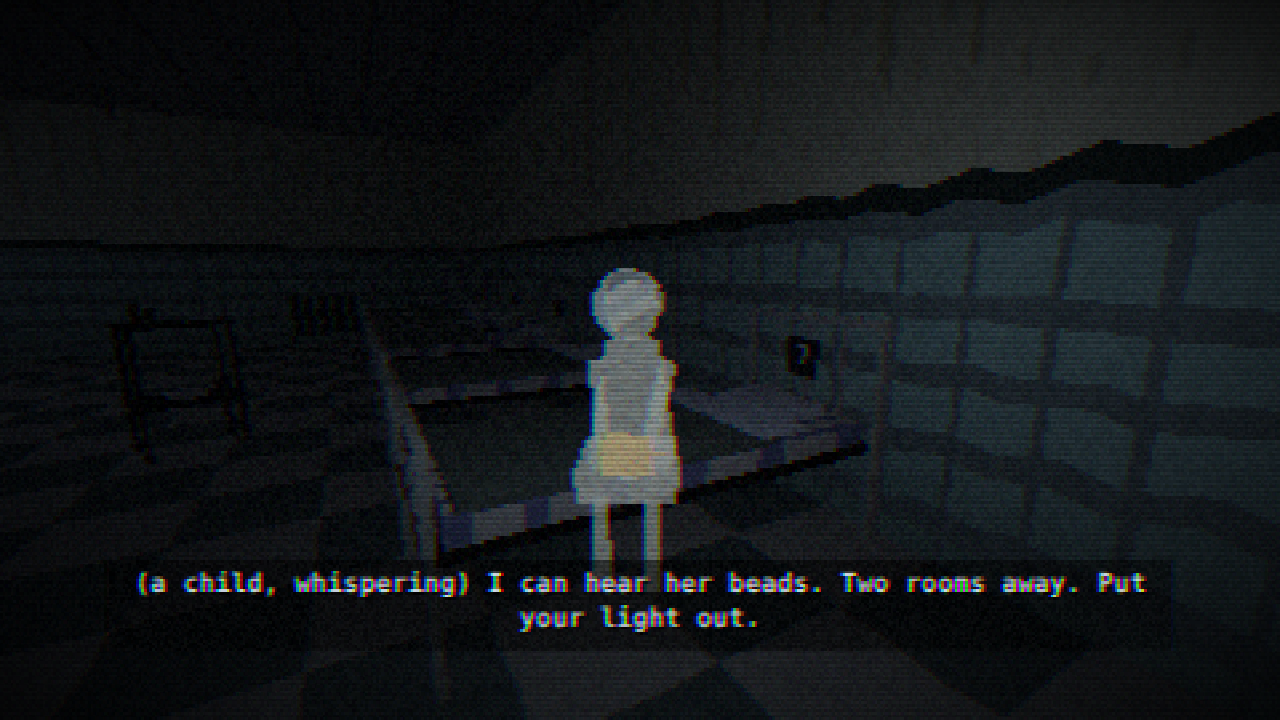
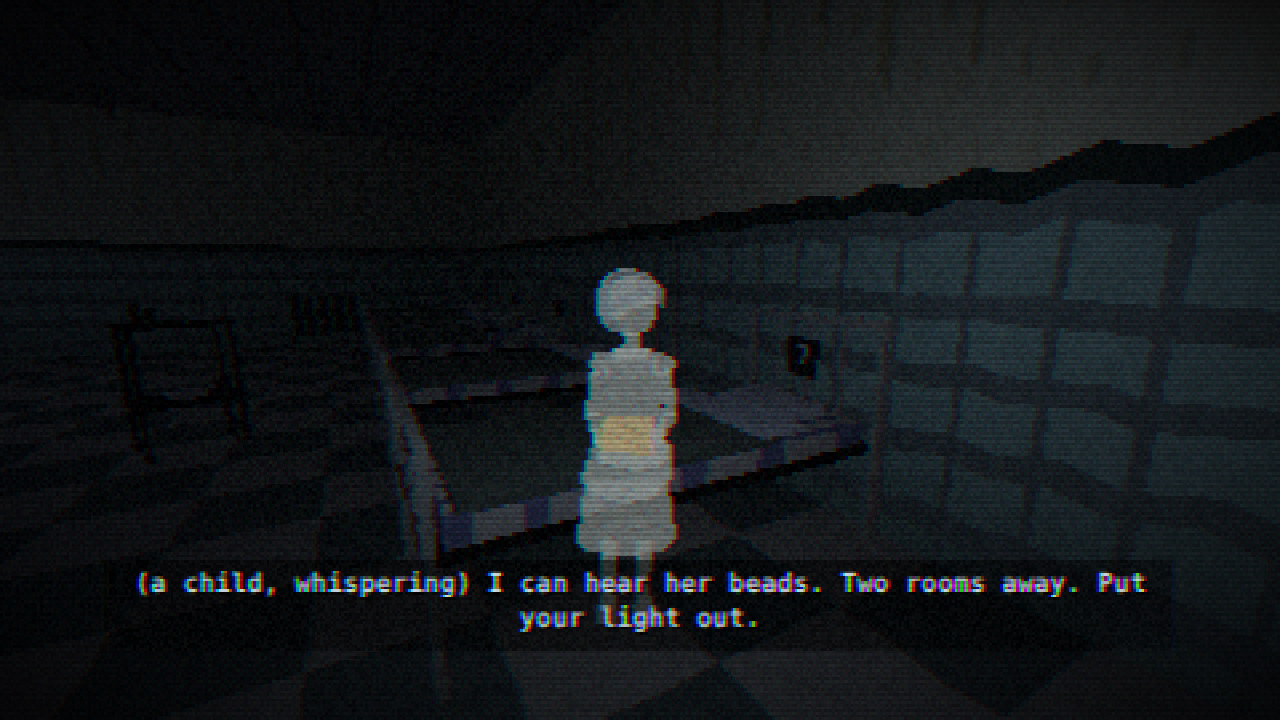
0.2.78: Edith redrawn as a seated child in a nightdress
Owner's note on the part C stills: the ghost looked off up close. New
seated figure (narrow shoulders, sleeves, collar, gown over the lap,
dangling feet, arms to the box), not see-through to herself; the mended
box lined red with a softer light. Part C picks recorded.

Claude-Session: https://claude.ai/code/session_01Kt2ajWcwzg7QhP3mDk3ZUu

Changed region(s): [[0.4375, 0.3667, 0.5312, 0.8861]]

diff --git a/src/props/wardFigures.js b/src/props/wardFigures.js
@@ -15,48 +15,85 @@ function mesh(geometry, texture, options) {
   return new THREE.Mesh(geometry, materialFor(texture, options));
 }
 
+// A limb: a six-sided tube from one point to another, radius r.
+function limb(t, from, to, r, options) {
+  const a = new THREE.Vector3(...from);
+  const b = new THREE.Vector3(...to);
+  const tube = mesh(new THREE.CylinderGeometry(r * 0.9, r, a.distanceTo(b), 6), t.sheet, options);
+  tube.position.copy(a).lerp(b, 0.5);
+  tube.quaternion.setFromUnitVectors(new THREE.Vector3(0, 1, 0), b.sub(a).normalize());
+  return tube;
+}
+
 // Edith Carr, sitting on the edge of a bed with her music box in her lap,
 // her head tilted to listen (she is blind). Faceless and unhurt, as every
-// ghost child (scare rules). Origin: where she sits.
+// ghost child (scare rules). A seated child in a nightdress (owner
+// 2026-11-17: the first one looked off close up): the gown narrow at the
+// shoulders, over her lap, falling from the knees; bare shins and feet
+// hanging over the edge, not reaching the floor; arms down and forward,
+// hands on the box. Origin: where she sits; she faces +z.
 function ghostEdith(t, { opacity = 0.6, box: musicBox = 'closed' } = {}) {
-  const ghost = { unlit: true, color: 0xd8e4ec, transparent: true, opacity, depthWrite: false, fog: false };
-  const body = mesh(new THREE.CylinderGeometry(0.1, 0.17, 0.44, 7), t.sheet, ghost);
-  body.position.y = 0.22;
-  const head = mesh(new THREE.SphereGeometry(0.105, 7, 5), t.sheet, ghost);
-  // Bobbed hair: a cap cut straight below the ears, open at the face.
-  const bob = mesh(new THREE.SphereGeometry(0.128, 8, 5, Math.PI * 0.78, Math.PI * 1.44, 0, Math.PI * 0.7), t.sheet, { ...ghost, color: 0xa9b9cc, side: THREE.DoubleSide });
-  bob.position.y = 0.012;
-  const headGroup = group(head, bob, box(t.sheet, [0.2, 0.03, 0.03], [0, 0.05, 0.085], { ...ghost, color: 0xa9b9cc })); // and a fringe
-  headGroup.position.set(0, 0.55, 0.01);
-  headGroup.rotation.set(0.12, 0.4, 0.45); // one ear turned to the room
-  const arm = (side) => strut(t.sheet, [side * 0.13, 0.36, 0.02], [side * 0.07, 0.13, 0.22], [0.045, 0.045], ghost);
+  // depthWrite on: seen close, her far side must not show through her.
+  const ghost = { unlit: true, color: 0xd8e4ec, transparent: true, opacity, depthWrite: true, fog: false, flatShading: true };
+  const part = (geometry, at, turn = [0, 0, 0], options = ghost) => {
+    const piece = mesh(geometry, t.sheet, options);
+    piece.position.set(...at);
+    piece.rotation.set(...turn);
+    return piece;
+  };
+  const torso = part(new THREE.CylinderGeometry(0.085, 0.13, 0.4, 8), [0, 0.2, 0], [0.08, 0, 0]);
+  torso.scale.z = 0.72;
+  const lap = part(new THREE.CylinderGeometry(0.075, 0.08, 0.3, 8), [0, 0.055, 0.15], [Math.PI / 2, 0, 0]);
+  lap.scale.x = 1.8;
+  const hem = part(new THREE.CylinderGeometry(0.13, 0.155, 0.2, 8), [0, -0.04, 0.31]);
+  hem.scale.z = 0.55;
+  const legs = [-0.055, 0.055].flatMap((x) => [
+    part(new THREE.CylinderGeometry(0.026, 0.023, 0.2, 6), [x, -0.24, 0.32]),
+    part(new THREE.BoxGeometry(0.05, 0.03, 0.09), [x, -0.35, 0.35]),
+  ]);
+  const arms = [-1, 1].flatMap((side) => [
+    limb(t, [side * 0.112, 0.37, 0.03], [side * 0.135, 0.19, 0.07], 0.03, ghost),
+    limb(t, [side * 0.135, 0.19, 0.07], [side * 0.095, 0.16, 0.2], 0.026, ghost),
+    part(new THREE.SphereGeometry(0.027, 6, 4), [side * 0.093, 0.16, 0.21]),
+  ]);
+  const neck = part(new THREE.CylinderGeometry(0.034, 0.04, 0.08, 6), [0, 0.43, 0.02]);
+  const collar = part(new THREE.CylinderGeometry(0.062, 0.075, 0.025, 8), [0, 0.4, 0.025]); // the nightdress's round collar
+  const sleeves = [-1, 1].map((side) => part(new THREE.SphereGeometry(0.045, 6, 4), [side * 0.105, 0.36, 0.025])); // puffed
+  const head = mesh(new THREE.SphereGeometry(0.1, 8, 6), t.sheet, ghost);
+  head.scale.set(0.95, 1.05, 1);
+  // Bobbed hair: a cap cut straight below the ears, open at the face, and a fringe.
+  const bob = mesh(new THREE.SphereGeometry(0.118, 8, 5, Math.PI * 0.78, Math.PI * 1.44, 0, Math.PI * 0.68), t.sheet, { ...ghost, color: 0xa9b9cc, side: THREE.DoubleSide });
+  bob.position.y = 0.014;
+  const headGroup = group(head, bob, box(t.sheet, [0.17, 0.026, 0.03], [0, 0.045, 0.08], { ...ghost, color: 0xa9b9cc }));
+  headGroup.position.set(0, 0.56, 0.035);
+  headGroup.rotation.set(0.12, 0.4, 0.4); // one ear turned to the room
+  const real = { color: 0xf0dcae, unlit: true, transparent: true, opacity: Math.min(1, opacity + 0.25), depthWrite: true, fog: false };
   return group(
-    body, headGroup, arm(-1), arm(1),
-    box(t.sheet, [0.32, 0.1, 0.34], [0, -0.03, 0.12], ghost), // her lap
-    box(t.sheet, [0.05, 0.3, 0.05], [-0.08, -0.33, 0.27], ghost),
-    box(t.sheet, [0.05, 0.3, 0.05], [0.08, -0.33, 0.27], ghost),
+    torso, lap, hem, ...legs, ...arms, ...sleeves, neck, collar, headGroup,
     ...(musicBox === 'open' ? openBox(t) : [
-      box(t.sheet, [0.16, 0.09, 0.12], [0, 0.07, 0.24], { ...ghost, color: 0xf0dcae, opacity: Math.min(1, opacity + 0.25) }), // the music box
-      box(t.sheet, [0.05, 0.015, 0.015], [0.105, 0.11, 0.24], { ...ghost, color: 0xf0dcae, opacity: Math.min(1, opacity + 0.25) }), // its crank
+      box(t.sheet, [0.16, 0.09, 0.12], [0, 0.125, 0.21], real), // the music box
+      box(t.sheet, [0.04, 0.012, 0.012], [0.1, 0.17, 0.21], real), // its crank
     ]),
   );
 }
 
 // Her music box mended (part C): real, not ghostly, its lid open, the brass
-// cylinder turning inside, a warm light from it on her hands.
+// cylinder on top, a soft warm light from it on her hands.
 function openBox(t) {
   const tin = { color: '#b0b4ae' };
-  const lid = box(t.sheet, [0.16, 0.012, 0.12], [0, 0, 0.06], tin);
-  const hinge = group(lid); // hinged at the back, open towards her
-  hinge.position.set(0, 0.11, 0.18);
+  const hinge = group( // hinged at the back, open towards her
+    box(t.sheet, [0.16, 0.01, 0.12], [0, 0, 0.06], tin),
+    box(t.sheet, [0.14, 0.004, 0.1], [0, -0.006, 0.06], { color: '#6a2c2a' }), // the faded red lining (inside, facing her once open)
+  );
+  hinge.position.set(0, 0.205, 0.15);
   hinge.rotation.x = -1.9;
-  const glow = new THREE.PointLight('#ffcf8a', 2.2, 2.2, 1.3);
-  glow.position.set(0, 0.2, 0.3);
+  const glow = new THREE.PointLight('#ffb866', 0.7, 1.0, 1.6);
+  glow.position.set(0, 0.26, 0.24);
   return [
-    box(t.sheet, [0.16, 0.08, 0.12], [0, 0.03, 0.24], tin),
-    box(t.sheet, [0.12, 0.03, 0.03], [0, 0.085, 0.22], { color: '#c8a050' }), // the cylinder
-    box(t.sheet, [0.12, 0.012, 0.04], [0, 0.085, 0.27], { color: '#d8d0b0' }), // its comb
-    box(t.sheet, [0.04, 0.012, 0.012], [0.1, 0.07, 0.24], { color: '#b8923a' }), // the key
+    box(t.sheet, [0.16, 0.08, 0.12], [0, 0.125, 0.21], tin),
+    box(t.sheet, [0.12, 0.028, 0.028], [0, 0.205, 0.19], { color: '#c8a050' }), // the cylinder
+    box(t.sheet, [0.12, 0.008, 0.035], [0, 0.205, 0.235], { color: '#d8d0b0' }), // its comb
+    box(t.sheet, [0.03, 0.012, 0.012], [0.095, 0.16, 0.21], { color: '#b8923a' }), // the key
     hinge,
     glow,
   ];

diff --git a/src/mockups/wardPartCStills.js b/src/mockups/wardPartCStills.js
@@ -96,7 +96,7 @@ export const WARD_PARTC_STILLS = {
       const pale = new THREE.PointLight('#9fb4dc', 1.6, 4.5, 1.3);
       pale.position.set(6.7 * CELL, 1.5, 8.9 * CELL);
       world.scene.add(pale);
-      look(world, [6.6 * CELL, 8.75 * CELL], [6.86 * CELL, 8.32 * CELL], 0.95, 0.72);
+      look(world, [5.85 * CELL, 8.45 * CELL], [6.9 * CELL, 8.3 * CELL], 1.3, 0.78); // from her side: sitting on the bed's edge, the box in her lap
     },
     ui: (ctx) => subtitle(ctx, '(Edith, whispering) That’s it. That’s the one my mother wound.'),
   },

diff --git a/docs/DESIGN_0.4.md b/docs/DESIGN_0.4.md
@@ -321,6 +321,16 @@ ceiling and down the walls, a candle burnt down to nothing on your table, the li
 New, mockup-only: `src/props/sisterRoom.js` (prieDieu, candle, stonePalm, trunk, boardedWindow,
 habitPeg, sootStain) and Edith's `box: 'open'`. The mock camcorder display now matches the game's.
 
+## Owner's picks on part C (2026-11-17)
+- **Stills approved,** with one note: "the ghost looks a little off". Edith rebuilt as a seated child
+  in a nightdress (a torso narrowing to the shoulders, puffed sleeves, a round collar, the gown over
+  her lap and falling from the knees, bare shins and feet hanging over the bed's edge, arms down and
+  forward to the box), drawn without seeing through herself; the mended box's lid lined faded red,
+  its light softer. `edith` and `box_mended` reshot (the latter from her side).
+- **The chase out:** she walks at 2.0 m/s (your walk 1.7, your run 3.3).
+- **Part C in two steps:** C1 the night sister's key, her room, the trunk, the confession and the
+  stone palm; C2 Edith's box mended, the chase out, the wing finished, your room's decay, the bot run.
+
 ## Next
 The owner's checklist on the content sheet and the priority 1 sounds; stills
 for part A's rooms, then build A, B, C in that order with the bot route per part.

diff --git a/CHANGELOG.md b/CHANGELOG.md
@@ -2,6 +2,7 @@
 
 Newest first. One line per change.
 
+- 0.2.78 — Edith redrawn after the owner's note (the ghost looked off up close): a small girl in a nightdress sitting on the edge of her bed, feet dangling, the music box in her hands.
 - 0.2.77 — 0.4 stills for the end of the west wing: Sister M.'s room, her candle before the stone palm, her trunk open, Edith with her music box mended, the way out in the dark, and your room after the wing. Nothing in the game changes.
 - 0.2.76 — Nora's tape plays on the day room television: half a minute of her own footage in the night view (Ward A's lamps going out, the writing in a cell, Sister M. in a doorway), with her words. A click stops it; it can be played again.
 - 0.2.75 — The first floor's secrets: Maggie's writing in the isolation cells, seen only through the camcorder's night view; Dr. Venn's door opens to the numbers she wrote, and his office holds his notes, page 3 of T. Hale's file, Nora on the radio and a door home. The day room television comes on by itself once you have the camcorder. The first floor's plan for the journal.
